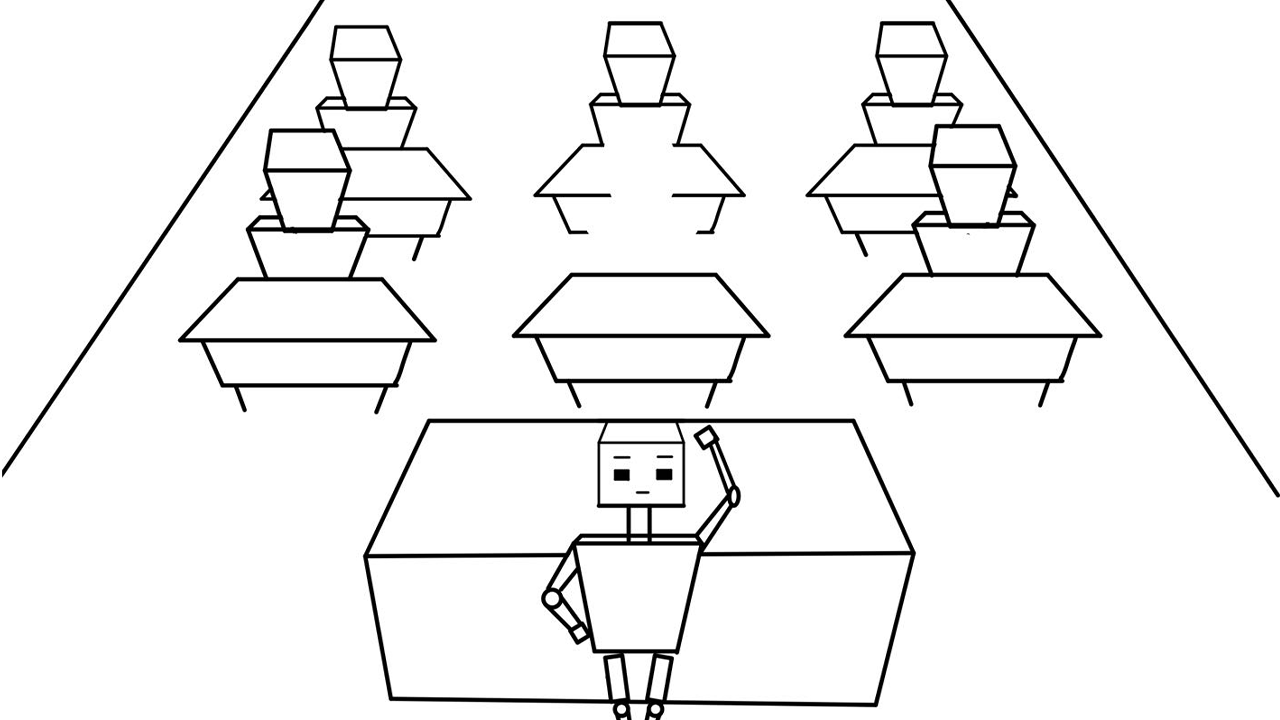
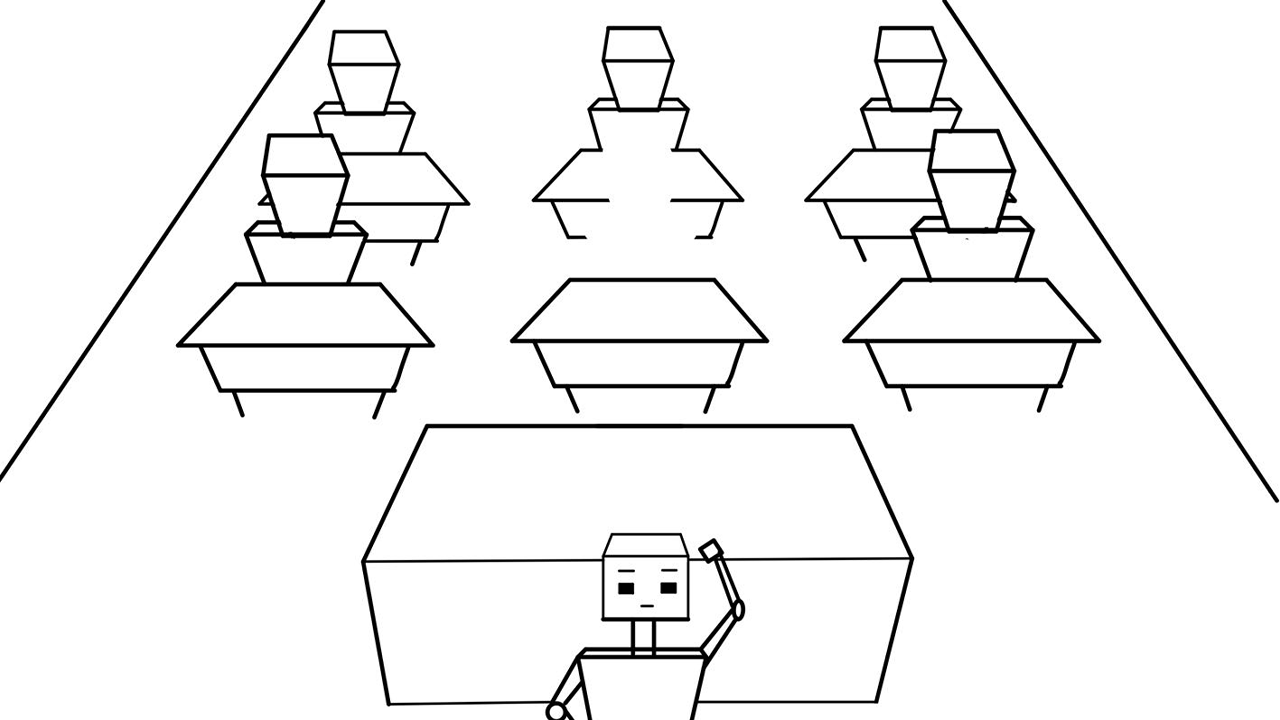
Three Basic Scenes Complete

diff --git a/src/scenes/Scene2.js b/src/scenes/Scene2.js
@@ -5,16 +5,70 @@ class Scene2 extends Phaser.Scene {
     }
 
     create() {
+        currentScene = "playScene2";
+        this.value = 0;
+        this.awareness = 0;
+        this.completeness = 0;
+
         // Add Keybind into the scene
         keySPACE = this.input.keyboard.addKey(Phaser.Input.Keyboard.KeyCodes.SPACE);
 
         // Add different sprite image into the scene
         this.background = this.add.sprite(1, 0, 'scene2(version2)').setScale(1.0).setOrigin(0.0)
-        .setInteractive().on('pointerup', () => {
-            console.log("x:", this.input.x, "y:", this.input.y);
-        });
+            .setInteractive().on('pointerup', () => {
+                console.log("x:", this.input.x, "y:", this.input.y);
+            });
         this.player = this.add.sprite(575, 290, 'noeating').setScale(1.1).setOrigin(0, 1);
-        this.teacherOP = this.add.sprite(643, 475, 'teacher-opMouse').setScale(1.5).setAlpha(0.0);
+        this.teacherOP = this.add.sprite(648, 589, 'teacher-opMouse').setScale(1.5).setAlpha(0.0);
+
+        //Add checkBox to the world
+        this.middleBox = this.physics.add.sprite(645, 480, 'square').setScale(0.05, 0.2);
+        this.middleBox.setAlpha(0.3);
+        this.middleBox.setImmovable(true);
+        this.middleBox.body.setAllowGravity(false);
+
+        this.leftBox = this.physics.add.sprite(602, 480, 'square').setScale(0.05, 0.2);
+        this.leftBox.setAlpha(0.3);
+        this.leftBox.setImmovable(true);
+        this.leftBox.body.setAllowGravity(false);
+
+        this.rightBox = this.physics.add.sprite(688, 480, 'square').setScale(0.05, 0.2);
+        this.rightBox.setAlpha(0.3);
+        this.rightBox.setImmovable(true);
+        this.rightBox.body.setAllowGravity(false);
+
+        this.killBox = this.physics.add.sprite(580, 480, 'square').setScale(0.05, 0.2);
+        this.killBox.setAlpha(0);
+        this.killBox.setImmovable(true);
+        this.killBox.body.setAllowGravity(false);
+
+        // Add text UI into the scene
+        this.completenessText = this.add.text(150, 560, `Chips Left: %${this.completeness}`, {
+            fontFamily: 'Pangolin',
+            fontSize: '30px',
+            color: '#FF0000 ',
+            stroke: '#6CBA8E',
+            strokeThickness: 2
+        });
+        this.awarenessText = this.add.text(950, 560, `Awareness: ${this.awareness} / 10`, {
+            fontFamily: 'Pangolin',
+            fontSize: '30px',
+            color: '#FF0000 ',
+            stroke: '#6CBA8E',
+            strokeThickness: 2
+        });
+
+        //add beat
+        this.beat = this.physics.add.sprite(1300, 480, 'square').setScale(0.05).setAlpha(0);
+
+        // Speed
+        this.beatSpeed = -400;
+        // Add group of beats
+        this.beatGroup = this.add.group({
+            runChildUpdate: true
+        });
+        // let firstBeat = new Beat(this, 0).setScale(0.05).setAlpha(0.0);
+        // this.beatGroup.add(firstBeat);
 
         // The loop function to generate different random number.
         this.difficultyTimer = this.time.addEvent({
@@ -25,24 +79,96 @@ class Scene2 extends Phaser.Scene {
         });
     }
 
+    // Function to add beat on the world
+    addBeats(x,y) {
+        let beat = new Beat(this, this.beatSpeed, x, y).setScale(0.05);
+        this.beatGroup.add(beat);
+    }
+
     rando() {
-        randomNum = Math.floor(Math.random() * 20);
+        randomNum = Math.floor(Math.random() * 6);
         console.log(randomNum);
     }
 
     update() {
+        this.status = this.beatGroup.getFirstAlive();
         // Eating action of the player
         if (Phaser.Input.Keyboard.JustDown(keySPACE)) {
+            
             this.player.setTexture('eating');
+            this.value = 0;
+
+            if (this.physics.collide(this.middleBox, this.status)) {
+                this.value = 10;
+                this.completeness += this.value;
+                this.completenessText.setText('Chips Left: ' + '%' + this.completeness);
+                this.beatGroup.remove(this.status);
+                this.status.destroy();
+
+            } else if (this.physics.collide(this.leftBox, this.status)) {
+                this.value = 5;
+                this.completeness += 5;
+                this.completenessText.setText('Chips Left: ' + '%' + this.completeness);
+                this.beatGroup.remove(this.status);
+                this.status.destroy();
+
+            } else if (this.physics.collide(this.rightBox, this.status)) {
+                this.value = 5;
+                this.completeness += 5;
+                this.completenessText.setText('Chips Left: ' + '%' + this.completeness);
+                this.beatGroup.remove(this.status);
+                this.status.destroy();
+
+            
+            } else {
+                this.awareness += 1;
+                this.awarenessText.setText('Awareness: ' + this.awareness + '/10');
+            }
+
+
         } else if (Phaser.Input.Keyboard.JustUp(keySPACE)) {
+
             this.player.setTexture('noeating');
+        }
+        if (this.physics.collide(this.killBox, this.status)) {
+            this.beatGroup.kill(this.status);
+            console.log('killed')
+        }
+
+
+        // Teacher speak out loud
+        if (randomNum == 5) {
+            // this.beatGroup.remove(this.firstBeat);
+            this.addBeats(1300, 480);
+            randomNum = 0;
         }
 
         // Teacher speak out loud
-        if (randomNum == 5){
-            console.log("Here1s");
+        if (randomNum == 3) {
+            // this.beatGroup.remove(this.firstBeat);
+            this.addBeats(1300,480);
+            this.addBeats(1330,480);
+            this.addBeats(1360,480);
+            this.addBeats(1390,480);
+            
             randomNum = 0;
-            this.teacherOP.setAlpha(1.0)
+        }
+
+        // Check if the beatbar overlap with the checkboxs
+        //spaceDown
+        if (this.physics.overlap(this.middleBox, this.beatGroup)) {
+            this.teacherOP.setAlpha(1);
+        } else {
+            this.teacherOP.setAlpha(0);
+        }
+
+        // End Condition
+        if (this.awareness >= 10) {
+            reason = "caught by teacher"
+            this.scene.start("GameOver");
+        }
+        if (this.completeness >= 100) {
+            this.scene.start("Victory");
         }
     }
 }

diff --git a/src/scenes/Menu.js b/src/scenes/Menu.js
@@ -36,7 +36,7 @@ class Menu extends Phaser.Scene {
             .on('pointerout', () => { playButton.alpha = 1.0 })
             .on('pointerup', () => {
                 this.sound.play("select_music", { volume: 2.0 });
-                this.scene.start("playScene1");
+                this.scene.start("menuScene2");
             });
 
         this.add.text(playButton.x, playButton.y, 'Play')
@@ -66,6 +66,86 @@ class Menu extends Phaser.Scene {
             });
 
         this.add.text(creditsButton.x, creditsButton.y, 'Credits')
+            .setOrigin(0.5)
+
+        // Get the key
+        keySPACE = this.input.keyboard.addKey(Phaser.Input.Keyboard.KeyCodes.SPACE);
+        keyS = this.input.keyboard.addKey(Phaser.Input.Keyboard.KeyCodes.S);
+        keyW = this.input.keyboard.addKey(Phaser.Input.Keyboard.KeyCodes.W);
+    }
+
+    update() {
+
+    }
+}
+
+class Menu2 extends Phaser.Scene {
+
+    constructor() {
+        super("menuScene2");
+    }
+
+    create() {
+        //UI
+        let menuConfig = {
+            fontFamily: 'Pangolin',
+            fontSize: '130px',
+            color: '#FFFF00',
+            stroke: '#99BF0D',
+            strokeThickness: 5,
+            padding: {
+                top: 5,
+                bottom: 5,
+            },
+            fixedWidth: 0
+        }
+
+        //menu text UI
+        let centerX = game.config.width / 2;
+        let centerY = game.config.height / 2;
+
+        // Adding the Title text
+        this.add.text(centerX, centerY - 100, 'Loafing Time', menuConfig).setOrigin(0.5);
+
+        //place background
+        this.input.setDefaultCursor('url(/assets/image/cursor_hand.png), pointer');
+        const { width, height } = this.scale
+        const playButton = this.add.image(width * 0.5, height * 0.6, 'glass-panel')
+            .setDisplaySize(150, 50).setInteractive()
+            .on('pointerover', () => { playButton.alpha = 0.5 })
+            .on('pointerout', () => { playButton.alpha = 1.0 })
+            .on('pointerup', () => {
+                this.sound.play("select_music", { volume: 2.0 });
+                this.scene.start("playScene1");
+            });
+
+        this.add.text(playButton.x, playButton.y, 'Kindergarten')
+            .setOrigin(0.5)
+
+        // Settings button
+        const settingsButton = this.add.image(playButton.x, playButton.y + playButton.displayHeight + 10, 'glass-panel')
+            .setDisplaySize(150, 50).setInteractive()
+            .on('pointerover', () => { settingsButton.alpha = 0.5 })
+            .on('pointerout', () => { settingsButton.alpha = 1.0 })
+            .on('pointerup', () => {
+                this.sound.play("select_music", { volume: 2.0 });
+                this.scene.start("playScene2");
+            });
+
+        this.add.text(settingsButton.x, settingsButton.y, 'High School')
+            .setOrigin(0.5)
+
+        // Credits button
+        const creditsButton = this.add.image(settingsButton.x, settingsButton.y + settingsButton.displayHeight + 10, 'glass-panel')
+            .setDisplaySize(150, 50).setInteractive()
+            .on('pointerover', () => { creditsButton.alpha = 0.5 })
+            .on('pointerout', () => { creditsButton.alpha = 1.0 })
+            .on('pointerup', () => {
+                this.sound.play("select_music", { volume: 2.0 });
+                this.scene.start("playScene");
+            });
+
+        this.add.text(creditsButton.x, creditsButton.y, 'Office')
             .setOrigin(0.5)
 
         // Get the key

diff --git a/src/prefabs/Beat.js b/src/prefabs/Beat.js
@@ -1,0 +1,23 @@
+//Beat prehabs
+class Beat extends Phaser.Physics.Arcade.Sprite {
+    constructor(scene, velocity, x, y) {
+        // call Phaser Physics Sprite constructor
+        super(scene, x, y, 'square');
+        
+        // set up physics sprite
+        scene.add.existing(this);               // add to existing scene, displayList, updateList
+        scene.physics.add.existing(this);       // add physics body
+        this.setVelocityX(velocity);            // make it go!
+        this.setImmovable(true);
+        this.score = true;
+        this.body.setAllowGravity(false);
+    }
+
+    update() {
+        // override physics sprite update()
+        super.update();
+        if (this.x < -this.width) {
+            this.destroy();
+        }
+    }
+}

diff --git a/src/scenes/Scene1.js b/src/scenes/Scene1.js
@@ -53,12 +53,15 @@ class Scene1 extends Phaser.Scene {
         this.right.setVisible(false);
         this.right.setImmovable(true);
         this.right.body.setAllowGravity(false);
+
         //teacher:
         this.teacher = this.add.sprite(87, 117, 'teacher').setOrigin(0.0).setScale(1.1);
         this.teacher.setAlpha(0.0);
+
         //student
         this.student = this.add.sprite(748, 380, 'teacher').setOrigin(0.0).setScale(1.1);
         this.student.setAlpha(0.0);
+        
         //blocks:
         this.checker = this.physics.add.sprite(397, 660, 'trashCan-Base').setOrigin(0, 0).setScale(1.5);
         this.checker.setImmovable(true);

diff --git a/src/scenes/Load.js b/src/scenes/Load.js
@@ -63,7 +63,8 @@ class Load extends Phaser.Scene {
             { key: 'eating' },
             { key: 'noeating' },
             { key: 'scene2(version2)' },
-            { key: 'teacher-opMouse' }
+            { key: 'teacher-opMouse' },
+            { key: 'square' }
         ]);
 
         // this.load.spritesheet('anims_fox', 'anims_fox.png', {

diff --git a/src/main.js b/src/main.js
@@ -24,7 +24,7 @@ let config = {
             }
         }
     },
-    scene: [Load, Menu, Play, Scene1, Scene2, Credits, Instru, GameOver, Victory]
+    scene: [Load, Menu, Menu2, Play, Scene1, Scene2, Credits, Instru, GameOver, Victory]
 };
 
 let game = new Phaser.Game(config);

diff --git a/index.html b/index.html
@@ -34,6 +34,7 @@
     <script src="./src/scenes/Scene2.js"></script>
     <script src="./src/prefabs/Boss.js"></script>
     <script src="./src/prefabs/Object.js"></script>
+    <script src="./src/prefabs/Beat.js"></script>
     <script src="./src/main.js"></script>
 </head>
 
